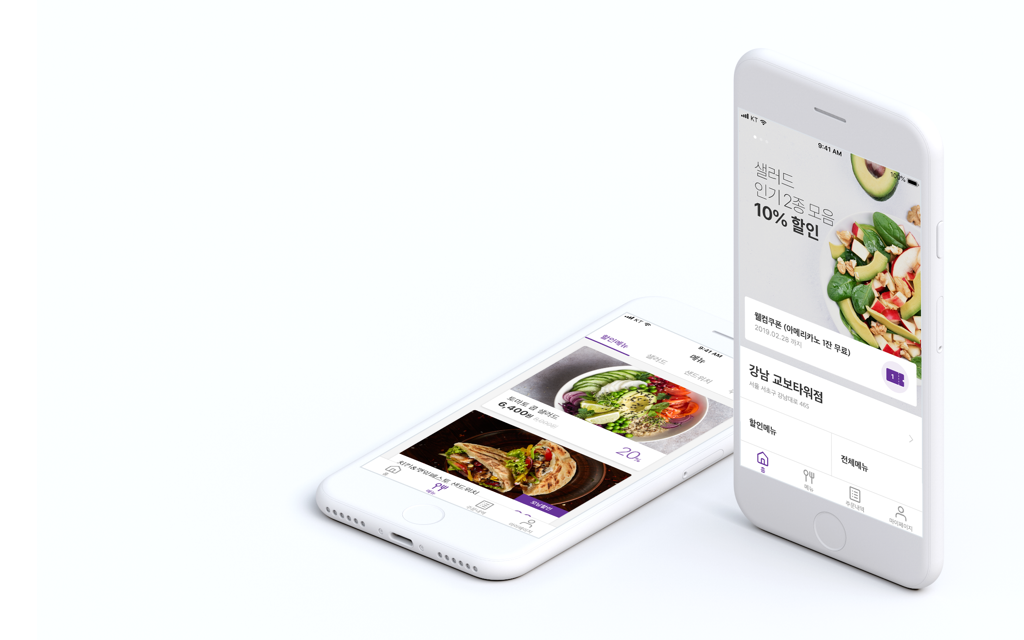
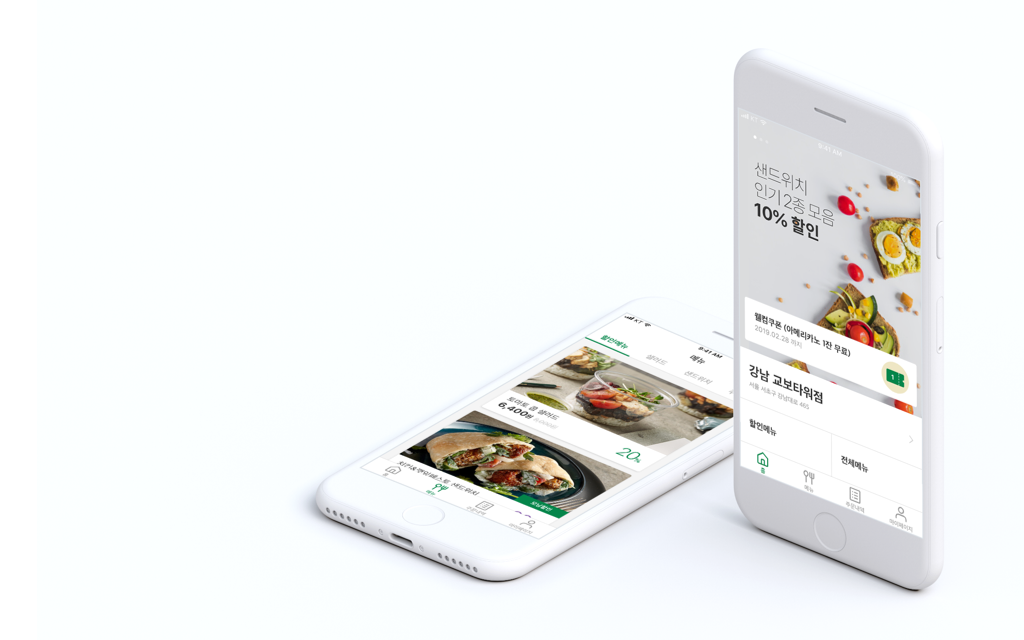
Update service color

diff --git a/assets/css/purplelabs.scss b/assets/css/purplelabs.scss
@@ -632,8 +632,8 @@
   }
   
   .service-description__button {
-    background-color: rgba($color: #663399, $alpha: 0.1);
-    color: #663399;
+    background-color: rgba($color: #04854a, $alpha: 0.1);
+    color: #04854a;
   }
 } 
 
@@ -805,6 +805,10 @@
       -webkit-align-self: center;
                   -ms-grid-row-align: center;
               align-self: center;
+    }
+
+    .service-description__logo {
+      width: 144px;
     }
 
     .service-description__title {
@@ -1059,6 +1063,10 @@
       -webkit-align-self: center;
                   -ms-grid-row-align: center;
               align-self: center;
+    }
+
+    .service-description__logo {
+      width: 144px;
     }
 
     .service-description__title {

diff --git a/assets/pre-css/purplelabs.scss b/assets/pre-css/purplelabs.scss
@@ -396,8 +396,8 @@
   }
   
   .service-description__button {
-    background-color: rgba($color: #663399, $alpha: 0.1);
-    color: #663399;
+    background-color: rgba($color: #04854a, $alpha: 0.1);
+    color: #04854a;
   }
 } 
 
@@ -520,6 +520,10 @@
       align-self: center;
     }
 
+    .service-description__logo {
+      width: 144px;
+    }
+
     .service-description__title {
       text-align: center;
       font-size: 18px;
@@ -613,6 +617,10 @@
     * {
       justify-self: center;
       align-self: center;
+    }
+
+    .service-description__logo {
+      width: 144px;
     }
 
     .service-description__title {
